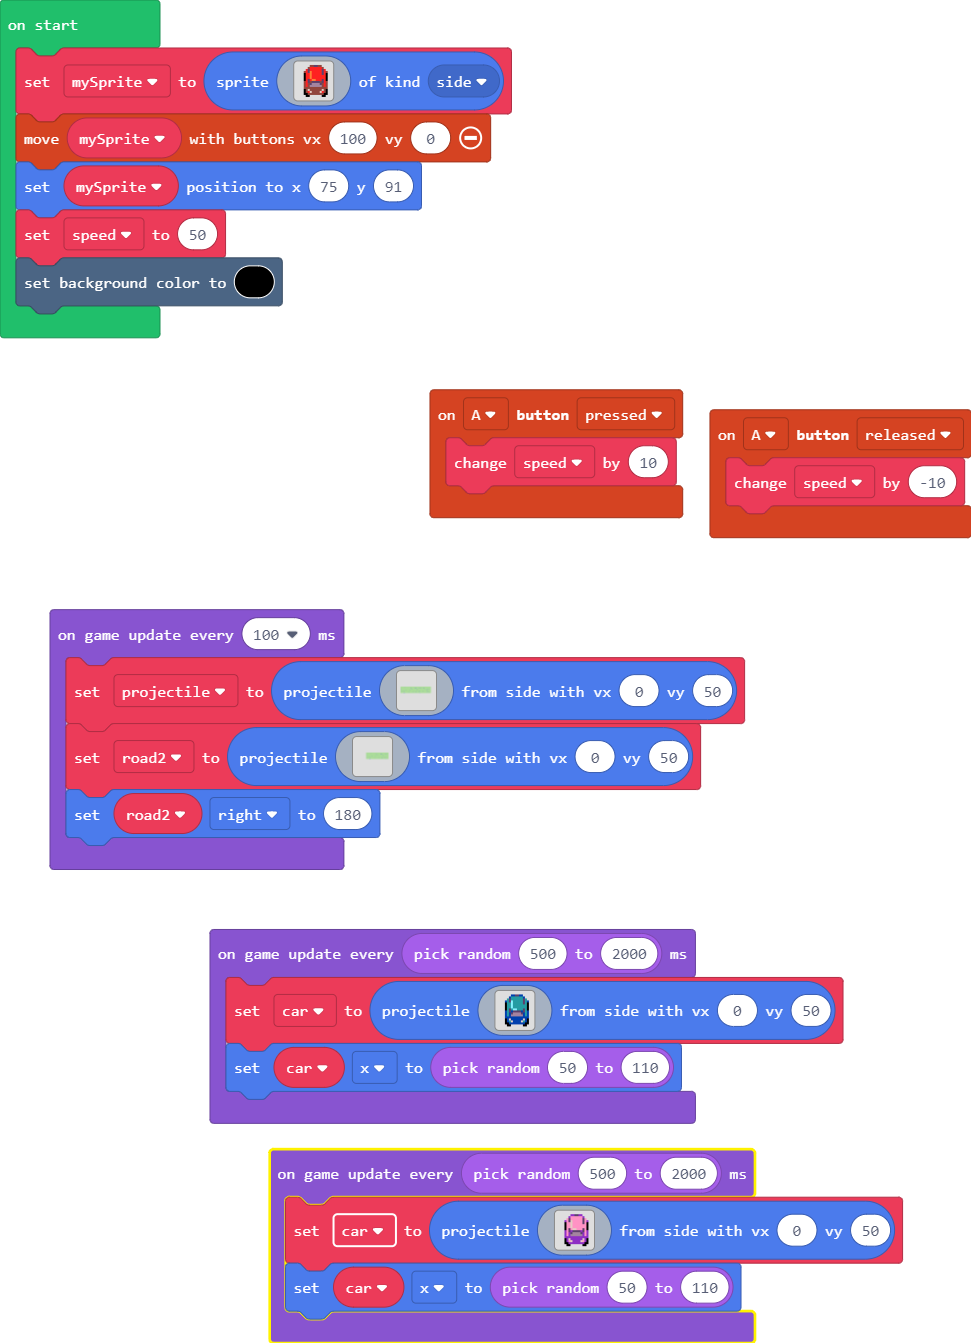
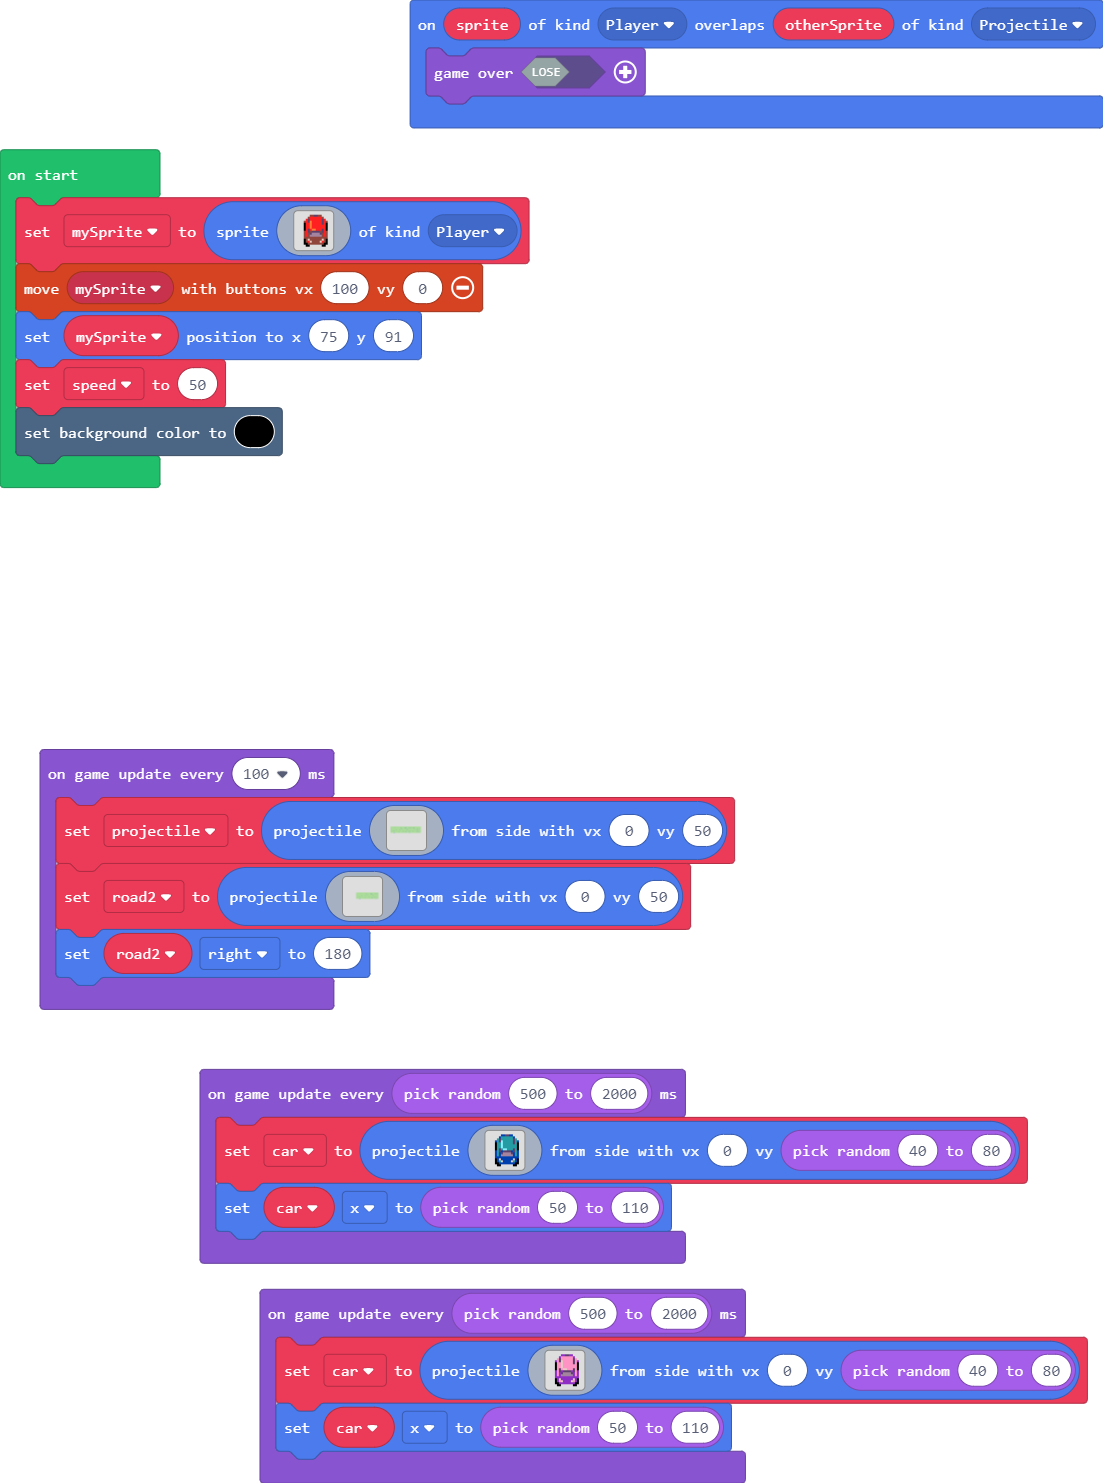
Update pxt.json, main.blocks, main.ts

diff --git a/main.ts b/main.ts
@@ -1,115 +1,112 @@
 namespace SpriteKind {
     export const side = SpriteKind.create()
 }
-controller.A.onEvent(ControllerButtonEvent.Pressed, function () {
-    speed += 10
-})
-controller.A.onEvent(ControllerButtonEvent.Released, function () {
-    speed += -10
+sprites.onOverlap(SpriteKind.Player, SpriteKind.Projectile, function (sprite, otherSprite) {
+    game.over(false)
 })
 let car: Sprite = null
 let road2: Sprite = null
 let projectile: Sprite = null
 let mySprite = sprites.create(img`
-    . . . . . . e e c c e e . . . .
-    . . . . . e 2 2 2 2 2 2 e . . .
-    . . . . 2 c 2 2 2 2 2 2 c 2 . .
-    . . . e 2 c 4 2 2 2 2 2 c 2 e .
-    . . . f 2 2 4 2 2 2 2 2 c 2 f .
-    . . . f 2 2 4 2 2 2 2 2 2 2 f .
-    . . . f 2 2 4 2 2 2 2 2 2 2 f .
-    . . . f 2 c 2 4 4 2 2 2 c 2 f .
-    . . . e 2 c e c c c c e c 2 e .
-    . . . e 2 e c b b b b c e 2 e .
-    . . . e 2 e b b b b b b e 2 e .
-    . . . e e e e e e e e e e e e .
-    . . . f e d e e e e e e d e f .
-    . . . f e 2 d e e e e d 2 e f .
-    . . . f f e e e e e e e e f f .
-    . . . . f f . . . . . . f f . .
-`, SpriteKind.side)
+. . . . . . e e c c e e . . . . 
+. . . . . e 2 2 2 2 2 2 e . . . 
+. . . . 2 c 2 2 2 2 2 2 c 2 . . 
+. . . e 2 c 4 2 2 2 2 2 c 2 e . 
+. . . f 2 2 4 2 2 2 2 2 c 2 f . 
+. . . f 2 2 4 2 2 2 2 2 2 2 f . 
+. . . f 2 2 4 2 2 2 2 2 2 2 f . 
+. . . f 2 c 2 4 4 2 2 2 c 2 f . 
+. . . e 2 c e c c c c e c 2 e . 
+. . . e 2 e c b b b b c e 2 e . 
+. . . e 2 e b b b b b b e 2 e . 
+. . . e e e e e e e e e e e e . 
+. . . f e d e e e e e e d e f . 
+. . . f e 2 d e e e e d 2 e f . 
+. . . f f e e e e e e e e f f . 
+. . . . f f . . . . . . f f . . 
+`, SpriteKind.Player)
 controller.moveSprite(mySprite, 100, 0)
 mySprite.setPosition(75, 91)
 let speed = 50
 scene.setBackgroundColor(15)
 game.onUpdateInterval(100, function () {
     projectile = sprites.createProjectileFromSide(img`
-        7 7 7 7 7 7 7 7 7 7 7 7 7 7 7 7 7 7 7 7 7 7 7 7 7 7 7 7 7 7 7 7 7 7 7 7 7 7 7 7 7 7 7 7 7 7 7 7 7 7 7 7 7 7 7 7 7 7 7 7 7 7 7 7 7 7 7 7 7 7 7 7 7 7 7 7 . . . .
-        7 7 7 7 7 7 7 7 7 7 7 7 7 7 7 7 7 7 7 7 7 7 7 7 7 7 7 7 7 7 7 7 7 7 7 7 7 7 7 7 7 7 7 7 7 7 7 7 7 7 7 7 7 7 7 7 7 7 7 7 7 7 7 7 7 7 7 7 7 7 7 7 7 7 7 7 . . . .
-        7 7 7 7 7 7 7 7 7 7 7 8 7 7 7 7 7 7 7 7 7 7 7 7 7 7 7 7 7 7 7 7 7 7 7 7 7 7 7 7 7 7 7 7 7 7 7 7 7 7 7 7 7 7 7 7 7 7 7 7 7 7 7 7 7 7 7 7 7 7 7 7 7 7 7 7 . . . .
-        7 7 7 7 7 7 7 7 7 7 7 7 7 7 7 7 7 7 7 7 7 7 7 7 7 8 8 7 7 7 7 7 7 7 7 7 8 8 7 7 7 7 7 7 7 7 8 7 7 8 7 8 7 7 7 7 7 7 7 8 7 7 7 7 7 7 7 7 7 7 7 7 7 7 7 7 . . . .
-        7 7 7 7 7 7 7 7 7 7 7 7 7 7 7 7 7 7 7 7 7 7 7 7 7 7 7 7 7 7 7 7 7 7 7 7 7 7 8 8 7 7 7 7 7 7 7 7 7 7 7 7 7 7 7 7 7 8 8 7 7 7 7 7 7 7 7 7 7 7 7 7 7 7 7 7 . . . .
-        7 8 7 7 7 7 7 7 7 7 7 7 7 7 7 7 7 7 7 7 7 7 7 7 7 7 7 7 7 7 7 7 7 7 7 7 7 7 7 7 7 7 7 7 7 7 7 7 7 7 7 7 7 7 7 7 7 7 7 7 7 7 7 7 7 7 8 7 7 8 7 7 7 7 7 7 . . . .
-        7 7 7 7 7 7 7 7 7 7 7 7 7 7 7 7 7 7 7 7 7 7 7 7 7 7 7 7 8 7 7 7 7 7 7 7 7 7 7 7 7 7 7 7 7 7 7 7 7 7 7 7 7 7 7 7 7 7 7 7 7 7 7 7 7 7 7 7 7 7 7 7 8 7 7 7 . . . .
-        7 7 7 7 7 7 7 7 7 7 7 7 7 7 7 7 7 7 7 7 7 7 7 7 7 7 7 7 7 7 7 7 7 7 7 7 7 7 7 7 7 8 8 7 7 7 7 7 7 7 7 7 7 7 7 7 7 7 7 7 7 8 7 7 7 7 7 7 7 7 7 7 7 7 7 7 . . . .
-        7 7 7 7 7 7 7 7 7 7 7 7 7 7 8 7 7 7 7 7 7 7 7 8 7 7 7 7 7 7 7 7 7 7 7 7 7 7 7 7 7 7 7 7 7 7 7 7 7 7 7 7 7 7 7 7 7 7 7 7 7 7 7 7 7 7 8 7 7 7 7 7 7 7 7 7 . . . .
-        7 7 7 7 7 7 7 7 7 7 7 7 7 7 7 7 7 7 7 7 7 7 7 7 7 7 7 7 7 7 7 7 7 7 7 7 7 7 7 7 7 7 7 7 7 7 7 7 7 7 7 7 7 7 7 7 7 7 7 7 7 7 7 7 7 7 7 7 7 7 7 7 7 7 7 7 . . . .
-        7 7 7 7 7 7 7 7 8 8 7 7 7 7 7 7 7 7 7 7 7 7 7 7 7 7 7 7 7 7 7 7 7 7 7 7 7 7 7 7 7 7 7 7 7 7 7 7 7 8 7 7 7 7 7 8 7 7 7 7 7 7 7 7 7 7 7 7 7 7 7 7 7 7 7 7 . . . .
-        7 7 7 8 7 7 7 7 7 7 7 7 7 7 7 7 7 7 7 7 7 7 7 7 7 7 7 7 7 7 7 7 7 7 7 7 7 7 7 7 7 7 7 7 7 7 7 7 7 7 7 7 7 7 7 8 7 7 7 7 7 7 7 7 7 7 7 7 7 8 7 7 7 7 7 7 . . . .
-        7 7 7 7 7 7 7 7 7 7 7 7 7 7 7 7 7 7 7 7 7 7 7 7 7 7 7 7 7 7 7 7 8 7 7 7 7 7 7 8 7 7 7 7 7 8 8 7 7 7 7 7 7 7 7 7 7 7 7 7 7 7 7 7 7 7 8 7 7 7 7 7 7 7 7 7 . . . .
-        7 7 7 7 7 7 7 7 7 7 7 7 7 7 7 7 7 7 7 7 7 7 7 7 7 7 7 7 7 7 7 7 7 7 7 7 7 7 7 8 7 7 7 7 7 7 7 7 7 7 7 7 7 7 7 7 7 7 7 7 7 7 7 7 7 8 7 7 7 7 7 7 7 7 7 7 . . . .
-        7 7 7 7 7 7 7 7 7 7 7 7 7 7 7 7 7 7 7 7 7 8 7 7 7 7 7 7 7 7 7 7 7 7 7 7 7 7 7 7 7 7 7 7 7 7 7 7 7 7 7 7 7 7 7 7 7 7 7 7 7 7 7 7 7 7 7 7 7 7 7 8 7 7 7 7 . . . .
-        7 7 7 7 7 7 7 7 8 8 8 7 7 7 7 7 7 7 7 7 7 7 7 7 7 7 7 7 7 7 7 7 7 7 7 7 7 7 7 7 7 7 7 7 7 7 7 7 7 8 7 7 7 7 7 7 7 7 7 7 7 7 7 7 7 7 7 7 7 7 7 7 7 7 7 7 . . . .
-    `, 0, 50)
+7 7 7 7 7 7 7 7 7 7 7 7 7 7 7 7 7 7 7 7 7 7 7 7 7 7 7 7 7 7 7 7 7 7 7 7 7 7 7 7 7 7 7 7 7 7 7 7 7 7 7 7 7 7 7 7 7 7 7 7 7 7 7 7 7 7 7 7 7 7 7 7 7 7 7 7 . . . . 
+7 7 7 7 7 7 7 7 7 7 7 7 7 7 7 7 7 7 7 7 7 7 7 7 7 7 7 7 7 7 7 7 7 7 7 7 7 7 7 7 7 7 7 7 7 7 7 7 7 7 7 7 7 7 7 7 7 7 7 7 7 7 7 7 7 7 7 7 7 7 7 7 7 7 7 7 . . . . 
+7 7 7 7 7 7 7 7 7 7 7 8 7 7 7 7 7 7 7 7 7 7 7 7 7 7 7 7 7 7 7 7 7 7 7 7 7 7 7 7 7 7 7 7 7 7 7 7 7 7 7 7 7 7 7 7 7 7 7 7 7 7 7 7 7 7 7 7 7 7 7 7 7 7 7 7 . . . . 
+7 7 7 7 7 7 7 7 7 7 7 7 7 7 7 7 7 7 7 7 7 7 7 7 7 8 8 7 7 7 7 7 7 7 7 7 8 8 7 7 7 7 7 7 7 7 8 7 7 8 7 8 7 7 7 7 7 7 7 8 7 7 7 7 7 7 7 7 7 7 7 7 7 7 7 7 . . . . 
+7 7 7 7 7 7 7 7 7 7 7 7 7 7 7 7 7 7 7 7 7 7 7 7 7 7 7 7 7 7 7 7 7 7 7 7 7 7 8 8 7 7 7 7 7 7 7 7 7 7 7 7 7 7 7 7 7 8 8 7 7 7 7 7 7 7 7 7 7 7 7 7 7 7 7 7 . . . . 
+7 8 7 7 7 7 7 7 7 7 7 7 7 7 7 7 7 7 7 7 7 7 7 7 7 7 7 7 7 7 7 7 7 7 7 7 7 7 7 7 7 7 7 7 7 7 7 7 7 7 7 7 7 7 7 7 7 7 7 7 7 7 7 7 7 7 8 7 7 8 7 7 7 7 7 7 . . . . 
+7 7 7 7 7 7 7 7 7 7 7 7 7 7 7 7 7 7 7 7 7 7 7 7 7 7 7 7 8 7 7 7 7 7 7 7 7 7 7 7 7 7 7 7 7 7 7 7 7 7 7 7 7 7 7 7 7 7 7 7 7 7 7 7 7 7 7 7 7 7 7 7 8 7 7 7 . . . . 
+7 7 7 7 7 7 7 7 7 7 7 7 7 7 7 7 7 7 7 7 7 7 7 7 7 7 7 7 7 7 7 7 7 7 7 7 7 7 7 7 7 8 8 7 7 7 7 7 7 7 7 7 7 7 7 7 7 7 7 7 7 8 7 7 7 7 7 7 7 7 7 7 7 7 7 7 . . . . 
+7 7 7 7 7 7 7 7 7 7 7 7 7 7 8 7 7 7 7 7 7 7 7 8 7 7 7 7 7 7 7 7 7 7 7 7 7 7 7 7 7 7 7 7 7 7 7 7 7 7 7 7 7 7 7 7 7 7 7 7 7 7 7 7 7 7 8 7 7 7 7 7 7 7 7 7 . . . . 
+7 7 7 7 7 7 7 7 7 7 7 7 7 7 7 7 7 7 7 7 7 7 7 7 7 7 7 7 7 7 7 7 7 7 7 7 7 7 7 7 7 7 7 7 7 7 7 7 7 7 7 7 7 7 7 7 7 7 7 7 7 7 7 7 7 7 7 7 7 7 7 7 7 7 7 7 . . . . 
+7 7 7 7 7 7 7 7 8 8 7 7 7 7 7 7 7 7 7 7 7 7 7 7 7 7 7 7 7 7 7 7 7 7 7 7 7 7 7 7 7 7 7 7 7 7 7 7 7 8 7 7 7 7 7 8 7 7 7 7 7 7 7 7 7 7 7 7 7 7 7 7 7 7 7 7 . . . . 
+7 7 7 8 7 7 7 7 7 7 7 7 7 7 7 7 7 7 7 7 7 7 7 7 7 7 7 7 7 7 7 7 7 7 7 7 7 7 7 7 7 7 7 7 7 7 7 7 7 7 7 7 7 7 7 8 7 7 7 7 7 7 7 7 7 7 7 7 7 8 7 7 7 7 7 7 . . . . 
+7 7 7 7 7 7 7 7 7 7 7 7 7 7 7 7 7 7 7 7 7 7 7 7 7 7 7 7 7 7 7 7 8 7 7 7 7 7 7 8 7 7 7 7 7 8 8 7 7 7 7 7 7 7 7 7 7 7 7 7 7 7 7 7 7 7 8 7 7 7 7 7 7 7 7 7 . . . . 
+7 7 7 7 7 7 7 7 7 7 7 7 7 7 7 7 7 7 7 7 7 7 7 7 7 7 7 7 7 7 7 7 7 7 7 7 7 7 7 8 7 7 7 7 7 7 7 7 7 7 7 7 7 7 7 7 7 7 7 7 7 7 7 7 7 8 7 7 7 7 7 7 7 7 7 7 . . . . 
+7 7 7 7 7 7 7 7 7 7 7 7 7 7 7 7 7 7 7 7 7 8 7 7 7 7 7 7 7 7 7 7 7 7 7 7 7 7 7 7 7 7 7 7 7 7 7 7 7 7 7 7 7 7 7 7 7 7 7 7 7 7 7 7 7 7 7 7 7 7 7 8 7 7 7 7 . . . . 
+7 7 7 7 7 7 7 7 8 8 8 7 7 7 7 7 7 7 7 7 7 7 7 7 7 7 7 7 7 7 7 7 7 7 7 7 7 7 7 7 7 7 7 7 7 7 7 7 7 8 7 7 7 7 7 7 7 7 7 7 7 7 7 7 7 7 7 7 7 7 7 7 7 7 7 7 . . . . 
+`, 0, 50)
     road2 = sprites.createProjectileFromSide(img`
-        . . . . . . . . . . . . . . . . . . . . . . . . 7 7 7 7 7 7 7 7 7 7 7 7 7 7 7 7 7 7 7 7 7 7 7 7 7 7 7 7 7 7 7 7 7 7 7 7 7 7 7 7 7 7 7 7 7 7 7 7 7 7 7 7 7 7 7 7
-        . . . . . . . . . . . . . . . . . . . . . . . . 7 7 7 7 7 7 7 7 7 7 7 7 7 7 7 7 7 7 7 7 7 7 7 7 7 7 7 7 7 7 7 7 7 7 7 7 7 7 7 7 7 7 7 7 7 7 7 7 7 7 7 7 7 7 7 7
-        . . . . . . . . . . . . . . . . . . . . . . . . 7 7 7 7 7 7 7 7 7 7 7 8 7 7 7 7 7 7 7 7 7 7 7 7 7 7 7 7 7 7 7 7 7 7 7 7 7 7 7 7 7 7 7 7 7 7 7 7 7 7 7 7 7 7 7 7
-        . . . . . . . . . . . . . . . . . . . . . . . . 7 7 7 7 7 7 7 7 7 7 7 7 7 7 7 7 7 7 7 7 7 7 7 7 7 8 8 7 7 7 7 7 7 7 7 7 8 8 7 7 7 7 7 7 7 7 8 7 7 8 7 8 7 7 7 7
-        . . . . . . . . . . . . . . . . . . . . . . . . 7 7 7 7 7 7 7 7 7 7 7 7 7 7 7 7 7 7 7 7 7 7 7 7 7 7 7 7 7 7 7 7 7 7 7 7 7 7 8 8 7 7 7 7 7 7 7 7 7 7 7 7 7 7 7 7
-        . . . . . . . . . . . . . . . . . . . . . . . . 7 8 7 7 7 7 7 7 7 7 7 7 7 7 7 7 7 7 7 7 7 7 7 7 7 7 7 7 7 7 7 7 7 7 7 7 7 7 7 7 7 7 7 7 7 7 7 7 7 7 7 7 7 7 7 7
-        . . . . . . . . . . . . . . . . . . . . . . . . 7 7 7 7 7 7 7 7 7 7 7 7 7 7 7 7 7 7 7 7 7 7 7 7 7 7 7 7 8 7 7 7 7 7 7 7 7 7 7 7 7 7 7 7 7 7 7 7 7 7 7 7 7 7 7 7
-        . . . . . . . . . . . . . . . . . . . . . . . . 7 7 7 7 7 7 7 7 7 7 7 7 7 7 7 7 7 7 7 7 7 7 7 7 7 7 7 7 7 7 7 7 7 7 7 7 7 7 7 7 7 8 8 7 7 7 7 7 7 7 7 7 7 7 7 7
-        . . . . . . . . . . . . . . . . . . . . . . . . 7 7 7 7 7 7 7 7 7 7 7 7 7 7 8 7 7 7 7 7 7 7 7 8 7 7 7 7 7 7 7 7 7 7 7 7 7 7 7 7 7 7 7 7 7 7 7 7 7 7 7 7 7 7 7 7
-        . . . . . . . . . . . . . . . . . . . . . . . . 7 7 7 7 7 7 7 7 7 7 7 7 7 7 7 7 7 7 7 7 7 7 7 7 7 7 7 7 7 7 7 7 7 7 7 7 7 7 7 7 7 7 7 7 7 7 7 7 7 7 7 7 7 7 7 7
-        . . . . . . . . . . . . . . . . . . . . . . . . 7 7 7 7 7 7 7 7 8 8 7 7 7 7 7 7 7 7 7 7 7 7 7 7 7 7 7 7 7 7 7 7 7 7 7 7 7 7 7 7 7 7 7 7 7 7 7 7 7 8 7 7 7 7 7 7
-        . . . . . . . . . . . . . . . . . . . . . . . . 7 7 7 8 7 7 7 7 7 7 7 7 7 7 7 7 7 7 7 7 7 7 7 7 7 7 7 7 7 7 7 7 7 7 7 7 7 7 7 7 7 7 7 7 7 7 7 7 7 7 7 7 7 7 7 7
-        . . . . . . . . . . . . . . . . . . . . . . . . 7 7 7 7 7 7 7 7 7 7 7 7 7 7 7 7 7 7 7 7 7 7 7 7 7 7 7 7 7 7 7 7 8 7 7 7 7 7 7 8 7 7 7 7 7 8 8 7 7 7 7 7 7 7 7 7
-        . . . . . . . . . . . . . . . . . . . . . . . . 7 7 7 7 7 7 7 7 7 7 7 7 7 7 7 7 7 7 7 7 7 7 7 7 7 7 7 7 7 7 7 7 7 7 7 7 7 7 7 8 7 7 7 7 7 7 7 7 7 7 7 7 7 7 7 7
-        . . . . . . . . . . . . . . . . . . . . . . . . 7 7 7 7 7 7 7 7 7 7 7 7 7 7 7 7 7 7 7 7 7 8 7 7 7 7 7 7 7 7 7 7 7 7 7 7 7 7 7 7 7 7 7 7 7 7 7 7 7 7 7 7 7 7 7 7
-        . . . . . . . . . . . . . . . . . . . . . . . . 7 7 7 7 7 7 7 7 8 8 8 7 7 7 7 7 7 7 7 7 7 7 7 7 7 7 7 7 7 7 7 7 7 7 7 7 7 7 7 7 7 7 7 7 7 7 7 7 7 8 7 7 7 7 7 7
-    `, 0, 50)
+. . . . . . . . . . . . . . . . . . . . . . . . 7 7 7 7 7 7 7 7 7 7 7 7 7 7 7 7 7 7 7 7 7 7 7 7 7 7 7 7 7 7 7 7 7 7 7 7 7 7 7 7 7 7 7 7 7 7 7 7 7 7 7 7 7 7 7 7 
+. . . . . . . . . . . . . . . . . . . . . . . . 7 7 7 7 7 7 7 7 7 7 7 7 7 7 7 7 7 7 7 7 7 7 7 7 7 7 7 7 7 7 7 7 7 7 7 7 7 7 7 7 7 7 7 7 7 7 7 7 7 7 7 7 7 7 7 7 
+. . . . . . . . . . . . . . . . . . . . . . . . 7 7 7 7 7 7 7 7 7 7 7 8 7 7 7 7 7 7 7 7 7 7 7 7 7 7 7 7 7 7 7 7 7 7 7 7 7 7 7 7 7 7 7 7 7 7 7 7 7 7 7 7 7 7 7 7 
+. . . . . . . . . . . . . . . . . . . . . . . . 7 7 7 7 7 7 7 7 7 7 7 7 7 7 7 7 7 7 7 7 7 7 7 7 7 8 8 7 7 7 7 7 7 7 7 7 8 8 7 7 7 7 7 7 7 7 8 7 7 8 7 8 7 7 7 7 
+. . . . . . . . . . . . . . . . . . . . . . . . 7 7 7 7 7 7 7 7 7 7 7 7 7 7 7 7 7 7 7 7 7 7 7 7 7 7 7 7 7 7 7 7 7 7 7 7 7 7 8 8 7 7 7 7 7 7 7 7 7 7 7 7 7 7 7 7 
+. . . . . . . . . . . . . . . . . . . . . . . . 7 8 7 7 7 7 7 7 7 7 7 7 7 7 7 7 7 7 7 7 7 7 7 7 7 7 7 7 7 7 7 7 7 7 7 7 7 7 7 7 7 7 7 7 7 7 7 7 7 7 7 7 7 7 7 7 
+. . . . . . . . . . . . . . . . . . . . . . . . 7 7 7 7 7 7 7 7 7 7 7 7 7 7 7 7 7 7 7 7 7 7 7 7 7 7 7 7 8 7 7 7 7 7 7 7 7 7 7 7 7 7 7 7 7 7 7 7 7 7 7 7 7 7 7 7 
+. . . . . . . . . . . . . . . . . . . . . . . . 7 7 7 7 7 7 7 7 7 7 7 7 7 7 7 7 7 7 7 7 7 7 7 7 7 7 7 7 7 7 7 7 7 7 7 7 7 7 7 7 7 8 8 7 7 7 7 7 7 7 7 7 7 7 7 7 
+. . . . . . . . . . . . . . . . . . . . . . . . 7 7 7 7 7 7 7 7 7 7 7 7 7 7 8 7 7 7 7 7 7 7 7 8 7 7 7 7 7 7 7 7 7 7 7 7 7 7 7 7 7 7 7 7 7 7 7 7 7 7 7 7 7 7 7 7 
+. . . . . . . . . . . . . . . . . . . . . . . . 7 7 7 7 7 7 7 7 7 7 7 7 7 7 7 7 7 7 7 7 7 7 7 7 7 7 7 7 7 7 7 7 7 7 7 7 7 7 7 7 7 7 7 7 7 7 7 7 7 7 7 7 7 7 7 7 
+. . . . . . . . . . . . . . . . . . . . . . . . 7 7 7 7 7 7 7 7 8 8 7 7 7 7 7 7 7 7 7 7 7 7 7 7 7 7 7 7 7 7 7 7 7 7 7 7 7 7 7 7 7 7 7 7 7 7 7 7 7 8 7 7 7 7 7 7 
+. . . . . . . . . . . . . . . . . . . . . . . . 7 7 7 8 7 7 7 7 7 7 7 7 7 7 7 7 7 7 7 7 7 7 7 7 7 7 7 7 7 7 7 7 7 7 7 7 7 7 7 7 7 7 7 7 7 7 7 7 7 7 7 7 7 7 7 7 
+. . . . . . . . . . . . . . . . . . . . . . . . 7 7 7 7 7 7 7 7 7 7 7 7 7 7 7 7 7 7 7 7 7 7 7 7 7 7 7 7 7 7 7 7 8 7 7 7 7 7 7 8 7 7 7 7 7 8 8 7 7 7 7 7 7 7 7 7 
+. . . . . . . . . . . . . . . . . . . . . . . . 7 7 7 7 7 7 7 7 7 7 7 7 7 7 7 7 7 7 7 7 7 7 7 7 7 7 7 7 7 7 7 7 7 7 7 7 7 7 7 8 7 7 7 7 7 7 7 7 7 7 7 7 7 7 7 7 
+. . . . . . . . . . . . . . . . . . . . . . . . 7 7 7 7 7 7 7 7 7 7 7 7 7 7 7 7 7 7 7 7 7 8 7 7 7 7 7 7 7 7 7 7 7 7 7 7 7 7 7 7 7 7 7 7 7 7 7 7 7 7 7 7 7 7 7 7 
+. . . . . . . . . . . . . . . . . . . . . . . . 7 7 7 7 7 7 7 7 8 8 8 7 7 7 7 7 7 7 7 7 7 7 7 7 7 7 7 7 7 7 7 7 7 7 7 7 7 7 7 7 7 7 7 7 7 7 7 7 7 8 7 7 7 7 7 7 
+`, 0, 50)
     road2.right = 180
 })
 game.onUpdateInterval(Math.randomRange(500, 2000), function () {
     car = sprites.createProjectileFromSide(img`
-        . . . . . . 8 8 c c 8 8 . . . .
-        . . . . . 8 6 6 6 6 6 6 8 . . .
-        . . . . 6 c 6 6 6 6 6 6 c 6 . .
-        . . . 8 6 c 9 6 6 6 6 6 c 6 8 .
-        . . . f 6 6 9 6 6 6 6 6 c 6 f .
-        . . . f 6 6 9 6 6 6 6 6 6 6 f .
-        . . . f 6 6 9 6 6 6 6 6 6 6 f .
-        . . . f 6 c 6 9 9 6 6 6 c 6 f .
-        . . . 8 6 c 8 c c c c 8 c 6 8 .
-        . . . 8 6 8 c b b b b c 8 6 8 .
-        . . . 8 6 8 b b b b b b 8 6 8 .
-        . . . 8 8 8 8 8 8 8 8 8 8 8 8 .
-        . . . f 8 d 8 8 8 8 8 8 d 8 f .
-        . . . f 8 6 d 8 8 8 8 d 6 8 f .
-        . . . f f 8 8 8 8 8 8 8 8 f f .
-        . . . . f f . . . . . . f f . .
-    `, 0, 50)
+. . . . . . 8 8 c c 8 8 . . . . 
+. . . . . 8 6 6 6 6 6 6 8 . . . 
+. . . . 6 c 6 6 6 6 6 6 c 6 . . 
+. . . 8 6 c 9 6 6 6 6 6 c 6 8 . 
+. . . f 6 6 9 6 6 6 6 6 c 6 f . 
+. . . f 6 6 9 6 6 6 6 6 6 6 f . 
+. . . f 6 6 9 6 6 6 6 6 6 6 f . 
+. . . f 6 c 6 9 9 6 6 6 c 6 f . 
+. . . 8 6 c 8 c c c c 8 c 6 8 . 
+. . . 8 6 8 c b b b b c 8 6 8 . 
+. . . 8 6 8 b b b b b b 8 6 8 . 
+. . . 8 8 8 8 8 8 8 8 8 8 8 8 . 
+. . . f 8 d 8 8 8 8 8 8 d 8 f . 
+. . . f 8 6 d 8 8 8 8 d 6 8 f . 
+. . . f f 8 8 8 8 8 8 8 8 f f . 
+. . . . f f . . . . . . f f . . 
+`, 0, Math.randomRange(40, 80))
     car.x = Math.randomRange(50, 110)
 })
 game.onUpdateInterval(Math.randomRange(500, 2000), function () {
     car = sprites.createProjectileFromSide(img`
-        . . . . . . a a c c a a . . . .
-        . . . . . a 3 3 3 3 3 3 a . . .
-        . . . . 3 c 3 3 3 3 3 3 c 3 . .
-        . . . a 3 c d 3 3 3 3 3 c 3 a .
-        . . . f 3 3 d 3 3 3 3 3 c 3 f .
-        . . . f 3 3 d 3 3 3 3 3 3 3 f .
-        . . . f 3 3 d 3 3 3 3 3 3 3 f .
-        . . . f 3 c 3 d d 3 3 3 c 3 f .
-        . . . a 3 c a c c c c a c 3 a .
-        . . . a 3 a c b b b b c a 3 a .
-        . . . a 3 a b b b b b b a 3 a .
-        . . . a a a a a a a a a a a a .
-        . . . f a d a a a a a a d a f .
-        . . . f a 3 d a a a a d 3 a f .
-        . . . f f a a a a a a a a f f .
-        . . . . f f . . . . . . f f . .
-    `, 0, 50)
+. . . . . . a a c c a a . . . . 
+. . . . . a 3 3 3 3 3 3 a . . . 
+. . . . 3 c 3 3 3 3 3 3 c 3 . . 
+. . . a 3 c d 3 3 3 3 3 c 3 a . 
+. . . f 3 3 d 3 3 3 3 3 c 3 f . 
+. . . f 3 3 d 3 3 3 3 3 3 3 f . 
+. . . f 3 3 d 3 3 3 3 3 3 3 f . 
+. . . f 3 c 3 d d 3 3 3 c 3 f . 
+. . . a 3 c a c c c c a c 3 a . 
+. . . a 3 a c b b b b c a 3 a . 
+. . . a 3 a b b b b b b a 3 a . 
+. . . a a a a a a a a a a a a . 
+. . . f a d a a a a a a d a f . 
+. . . f a 3 d a a a a d 3 a f . 
+. . . f f a a a a a a a a f f . 
+. . . . f f . . . . . . f f . . 
+`, 0, Math.randomRange(40, 80))
     car.x = Math.randomRange(50, 110)
 })
